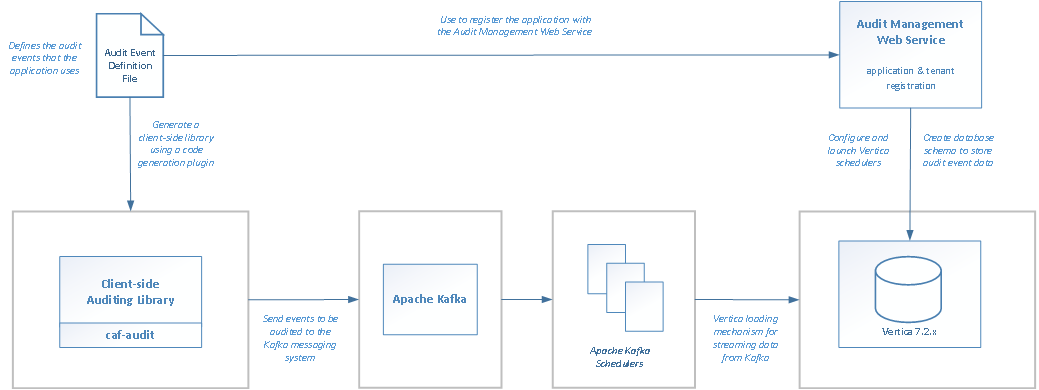
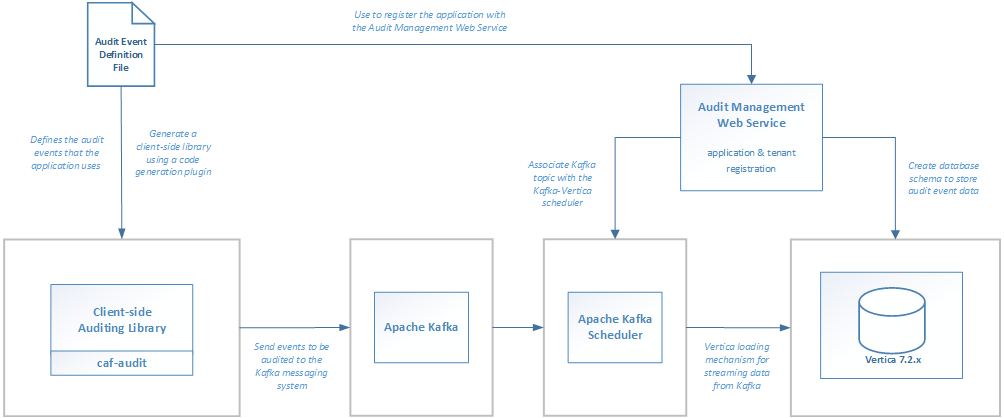
CAF-1377: Audit management web service no longer create/launch Vertica schedulers (#2)

diff --git a/README.md b/README.md
@@ -5,9 +5,9 @@
 Applications will define audit events that will occur in the system in an [Audit Event Definition File](https://github.hpe.com/caf/caf-audit-schema/blob/develop/README.md).
 The Audit Event Definition File will be used to generate an application-specific client-side auditing library using a custom maven plugin. The client-side library is then used to send audit event messages to the Apache Kafka messaging service.
 
-The Audit Event Definition File will also be used to register the application with the Audit Management Web Service. The web service will set up Vertica to store the audit events.
+The Audit Event Definition File will also be used to register the application with the Audit Management Web Service. The web service will set up the Vertica database schema as well as register the Kafka topic with the Kafka scheduler in order to store the audit events.
 
-Vertica provides a high-performance loading mechanism for streaming the data from Apache Kafka into the Vertica database via Kafka Schedulers. This loading mechanism is configured and started when tenants are registered with the application using the Audit Management Web Service.
+Vertica provides a high-performance loading mechanism for streaming the data from Apache Kafka into the Vertica database via Kafka schedulers. 
 
 For set-up:
 
@@ -15,10 +15,10 @@ For set-up:
 2. Generate the client-side auditing library using the Audit Event Definition File and code generation plugin.
 3. Install and configure Apache Kafka on a system.
 4. It is recommended, that you install and configure Vertica 7.2.x on a separate machine.
-5. Register the application and add tenant(s) with the Audit Management Web Service. This will create the necessary database schema in Vertica. It will also configure the Kafka integration feature in order to stream the data from the Kafka messaging service into the Vertica database.
-6. Use the client-side auditing library to send audit events to Kafka.
+5. Create and launch the Apache Kafka scheduler in order to stream the data from the Kafka messaging service into the Vertica database.
+6. Register the application and add tenant(s) with the Audit Management Web Service. This will create the necessary database schema in Vertica. 
+7. Use the client-side auditing library to send audit events to Kafka.
 
-Read below for more information.
 
 # Auditing Library
 
